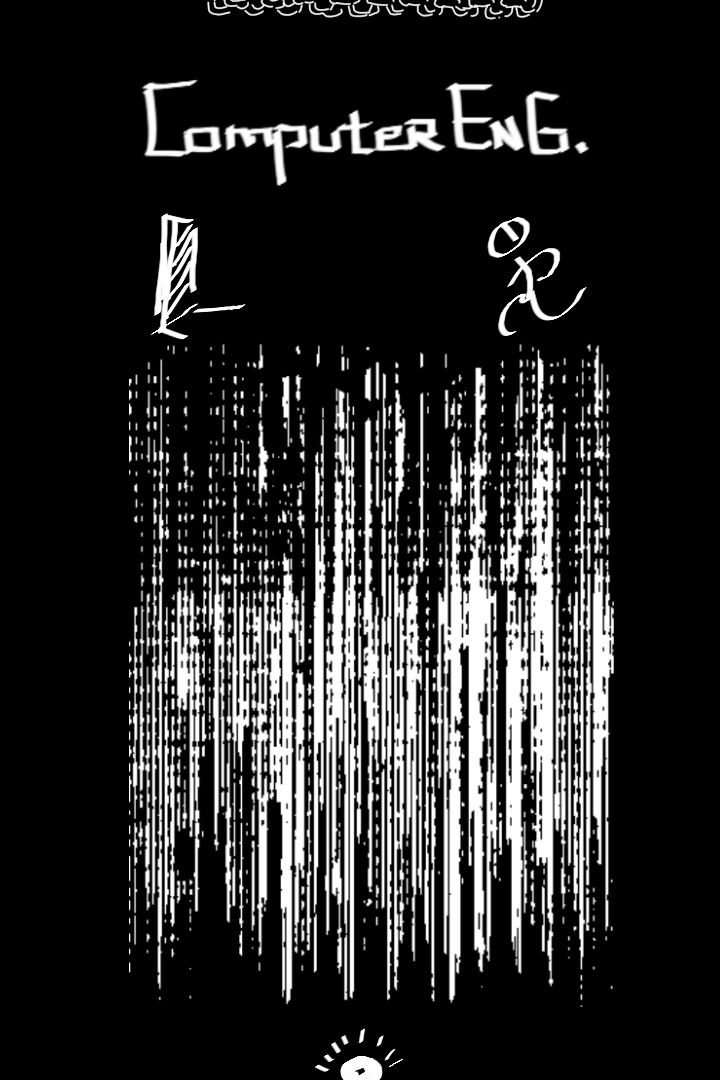
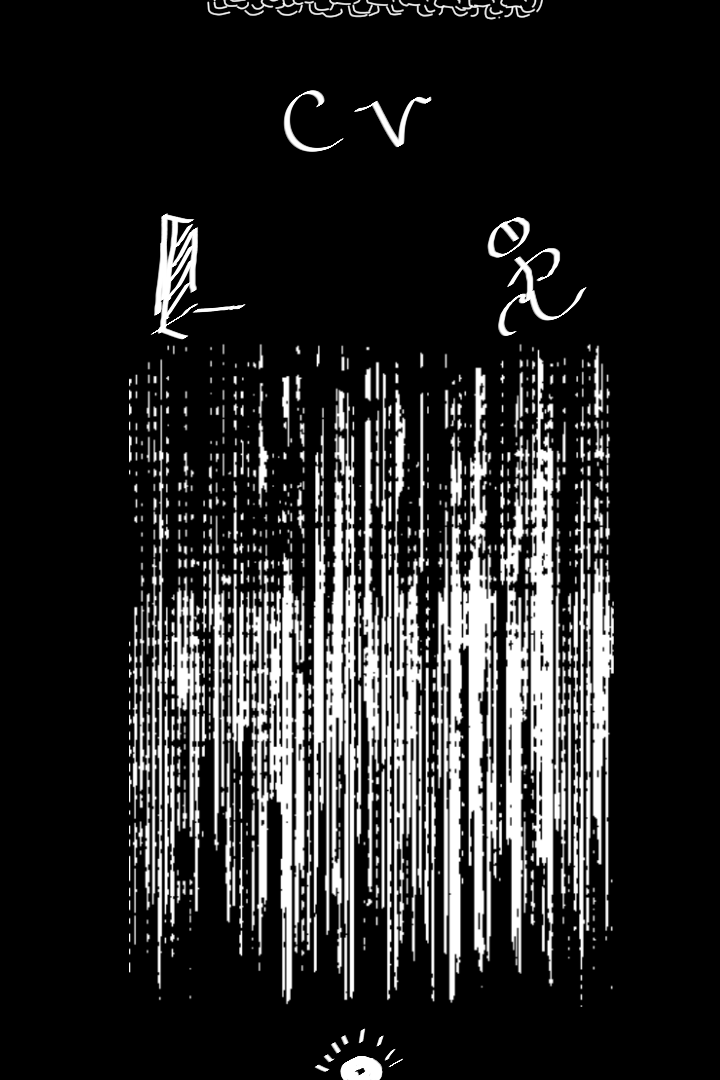
yay

Changed region(s): [[0.1833, 0.0611, 0.825, 0.1833]]

diff --git a/comp-eng.html b/comp-eng.html
@@ -58,96 +58,145 @@
 
   <!--Content-->
 
-  <div class="content" id="ajax-content">
+  <div class="compeng" id="ajax-content">
 
 
-        <div class="resume">
-          <h1>TONY WANG</h1>
-          </br>
+    <div class="resume">
+
+          <h1>SKILLS AND STUFF</h1>
           <div class="row">
-            <div class="col-xs-3">
-              <h2>SKILLS AND STUFF</h2>
-            </div>
-            <div class="col-xs-9">
+            <div class="col-md-offset-1 col-md-10">
               <p>
                 - Creative and innovative thinker with diverse interests ranging from CAD, software dev, to photography/videography.</br>
                 - Outstanding teamwork and leadership skills developed through past projects.</br>
                 - Strong ability to learn and adjust to new languages, libraries and environments throughout the course of development. 
               </p>
+              </BR>
             </div>
-            <div class="col-xs-3">
-              <h3>Software Development</h3>
+            <div class="col-md-offset-1 col-md-3">
+              <h3>Software Dev</h3>
             </div>
-            <div class="col-xs-8">
+            <div class="col-md-8">
               <p>React.js, Node.js, Express.js, Angular.js, Socket.io, Python, C++, Java, PostgreSQL
               </p>
             </div>
 
-            <div class="col-xs-3">
+            <div class="col-md-offset-1 col-md-3">
               <h3>CAD</h3>
             </div>
-            <div class="col-xs-8">
+            <div class="col-md-8">
               <p>
-              Graphic Design via SAI/Adobe Photoshop/Illustrator/Clip Studio Paint</br>
-   Photo Editing via Lightroom/Photoshop; 3D Modelling via Autodesk Maya
-
+              Graphic Design via SAI/Adobe Photoshop/Illustrator/Clip Studio Paint</br>Photo Editing via Lightroom/Photoshop; 3D Modelling via Autodesk Maya
               </p>
             </div>
-            <div class="col-xs-3">
+            <div class="col-md-offset-1 col-md-3">
               <h3>Others</h3>
             </div>
-            <div class="col-xs-8">
-              <p>
-Music/Sound Production via FL Studio, Adobe Audition; Video Editing via Adobe Premiere Pro.
+            <div class="col-md-8">
+              <p>Music/Sound Production via FL Studio, Adobe Audition;<br/> Video Editing via Adobe Premiere Pro.
 
               </p>
             </div>
-
-
-
-
           </div>
-          </br>
-          </br>
 
-          <div class="row">
-            <div class="col-xs-3">
-              <h2>SKILLS AND STUFF</h2>
+          <h1>Currently working on</h1>         
+          <div class="row">   
+            <div class="col-md-offset-1 col-md-10">
+              <h2>Project Calliope</h2>
             </div>
-            <div class="col-xs-9">
+            <div class="col-md-offset-1 col-md-10">
+              <h3>Research Phase, Apr 2016 – present</h3>
+            </div>
+            <div class="col-md-offset-1 col-md-10">
               <p>
-                - Creative and innovative thinker with diverse interests ranging from CAD, software dev, to photography/videography.</br>
-                - Outstanding teamwork and leadership skills developed through past projects.</br>
-                - Strong ability to learn and adjust to new languages, libraries and environments throughout the course of development. 
+                - Will be an emotional AI that simulates 5 basic senses of human’s and incorporates NLP through artificial neural network.</br>- Connects fundamental language and sensational feedback in order to comprehend the language itself.</br>- Bases on the deep learning framework Caffe developed by Berkeley Vision and Learning Center.  
               </p>
+            </br>
             </div>
-            
+            <div class="col-md-offset-8 col-md-2">
+              <a href='http://cogsci.uwaterloo.ca/Biographies/pault.html'target="_blank">Research Source</a>
+            </div>
+            <div class="col-md-2">
+              <a href='https://github.com/STBTony/Calliope'target="_blank">More Info</a>
+            </div>
+          </div>
 
+          <h1>Past glories</h1>    
+          <div class="row">            
+            <div class="col-md-offset-1 col-md-10">
+              <h2>Innovation Engineer</h2>
+            </div>
+            <div class="col-md-offset-1 col-md-10">
+              <h3>CIBC Live Labs @ MaRS, Toronto, ON, Jan 2016 – Apr 2016</h3>
+            </div>
+            <div class="col-md-offset-1 col-md-10">
+              <p>
+                - Developed and demonstrated new, innovative banking products in an agile team of 11.</br>- Prototyped several individual projects, including websites, mobile apps, and bots.<br/>- Adopted Microsoft Cognitive Service (Project Oxford) for emotion recognition and facial identification.<br/>- Produced (Filmed and edited) professional level videography projects for CIBC and Bitmaker.
+ 
+              </p>
+            </br>
+            </div>
 
+            <div class="col-md-offset-1 col-md-10">
+              <h2>Scrum Master | Developer | Graphic Designer</h2>
+            </div>
+            <div class="col-md-offset-1 col-md-10">
+              <h3>“The Evil Hangman” Game Design Group, London, ON, Mar 2015 -Apr 2015</h3>
+            </div>
+            <div class="col-md-offset-1 col-md-10">
+              <p>- Collaborated with two other members to build entire game in Java from scratch and meet launch date (3 weeks).<br/>- Created all visual assets (Photoshop), user interface interactions (Java GUI), animations, with user experience in mind.
+              </p>
+            </br>
+            </div>
 
           </div>
-                    
 
-
-
-              <div>
-
-              </div>   
-
-        
-                  <div class="prev-next">
-                  
-                    <div class="prev-button"><a class="ajax-link" href="single-fullscreen.html">Previous work</a></div>
-                    <div class="next-button"><a class="ajax-link" href="projects.html">Next work</a></div>
-          
-                  </div>
+          <h1>Memberships</h1>    
+          <div class="row">  
+            <div class="col-md-offset-1 col-md-10">
+              <h2>Team Member</h2>
             </div>
-        
+            <div class="col-md-offset-1 col-md-10">
+              <h3>University of Waterloo Aerial Robotic Group (WARG), Waterloo, ON, Sept 2015 – Dec 2015</h3>
+            </div>
+            <div class="col-md-offset-1 col-md-10">
+              <p>
+                - Utilized OpenCV to program and improve the image target analysis from the camera on the aircraft.
+              </p>
+            </br>
+            </div>
+                      
+            <div class="col-md-offset-1 col-md-10">
+              <h2>Founder/Tutor</h2>
+            </div>
+            <div class="col-md-offset-1 col-md-10">
+              <h3>Shenzhen Institute of Technology English Tutor Organization, Shenzhen, China, Dec 2012 - Jul 2013</h3>
+            </div>
+            <div class="col-md-offset-1 col-md-10">
+              <p>
+                - Founded a non-profit English tutoring program on campus for over 200 students.<br/>- Hired 6 other part time English tutors to meet demand. 
+              </p>
+            </br>
+            </div>
+
+
+            <div class="col-md-offset-1 col-md-10">
+              <h2>Founder/President</h2>
+            </div>
+            <div class="col-md-offset-1 col-md-10">
+              <h3>Shenzhen Institute of Technology Photography Club, Shenzhen, China, Sept 2012 - Jun 2013</h3>
+            </div>
+            <div class="col-md-offset-1 col-md-10">
+              <p>- Took the initiative to found the first photography club on campus, recruiting 32 members within 6 months.
+              </p>
+            </br>
+            </div>
+          </div>
+
+
+
     </div>
 
-  <!--Home Sidebar-->
-
-<div id="ajax-sidebar"></div>
 
 
   <!--Footer-->

diff --git a/css/style.css b/css/style.css
@@ -828,17 +828,16 @@ li.home-item{
 
 
 .resume{
-  width: 1140px;
-  margin-top: 100px;
-  margin: 150px auto 0;
+  width:80%;
+  padding-top:15vh;
+  margin:auto;
 }
 
 .resume h1{
-  font-size:43px;
+  font-size:30px;
   text-transform:uppercase;
   color:#000000;
-  padding:20px;
-  font-weight:900;
+  font-weight:800;
   line-height:70px;
 }
 .resume h2{
@@ -846,22 +845,29 @@ li.home-item{
 
   text-transform:uppercase;
   color:#000000;
-  font-weight:90;
+  font-weight:500;
   line-height:70px;
-  padding-left: 10px;
 }
 .resume  h3{
-  font-size:15px;
+  display:block;
+  font-size:16px;
   color:#000000;
-  font-weight:90;
-  padding-left: 15px;
-  padding-top: 35px;
+  font-weight:600;
 }
 .resume p{
   font-size:13px;
   color:#000000;
-  margin-top:30px;
+  padding-top:20px;
+  padding-bottom:20px;
   font-weight:400;
   line-height:22px;
   letter-spacing:1px;
+}.resume a{
+  color:#000000;
+  letter-spacing:1px;
+}
+
+.container-cv{
+  width:90%;
+  margin:auto;
 }
